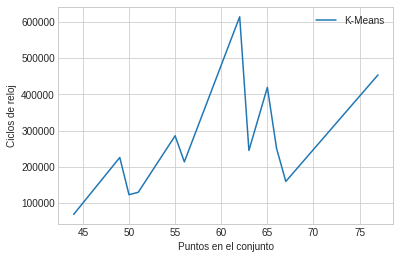
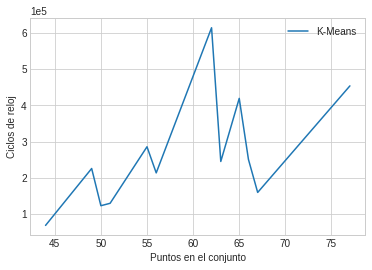
agrego graficos acotados y modifico ejes para que tengan notacion cientifica

Changed region(s): [[0.0, 0.0309, 1.0, 0.9884], [0.1478, 0.0, 0.9758, 0.0309]]

diff --git a/docs/sections/kmeans/experimentacion-performance.tex b/docs/sections/kmeans/experimentacion-performance.tex
@@ -2,7 +2,11 @@
 
 \subsubsubsection{Medición en base a tamaño del grafo}
 
+Al no depender de n, si no de la distribución de los puntos y sus respectivas demandas, se espera un gráfico con variaciones.
+
 \begin{figure}[H]
 	\centering
 	\includegraphics[scale=0.6]{exercise5/kmeans3.png}
 \end{figure}
+
+Tal como era de esperar, el gráfico no presenta una curva de crecimiento continuo a medida que crece el valor de n. Es fácil visualizar los distintos altos y bajos en el gráfico y por ende resulta trivial concluir que la distribución de los puntos es aquello que afecta a la heurística K-means.
